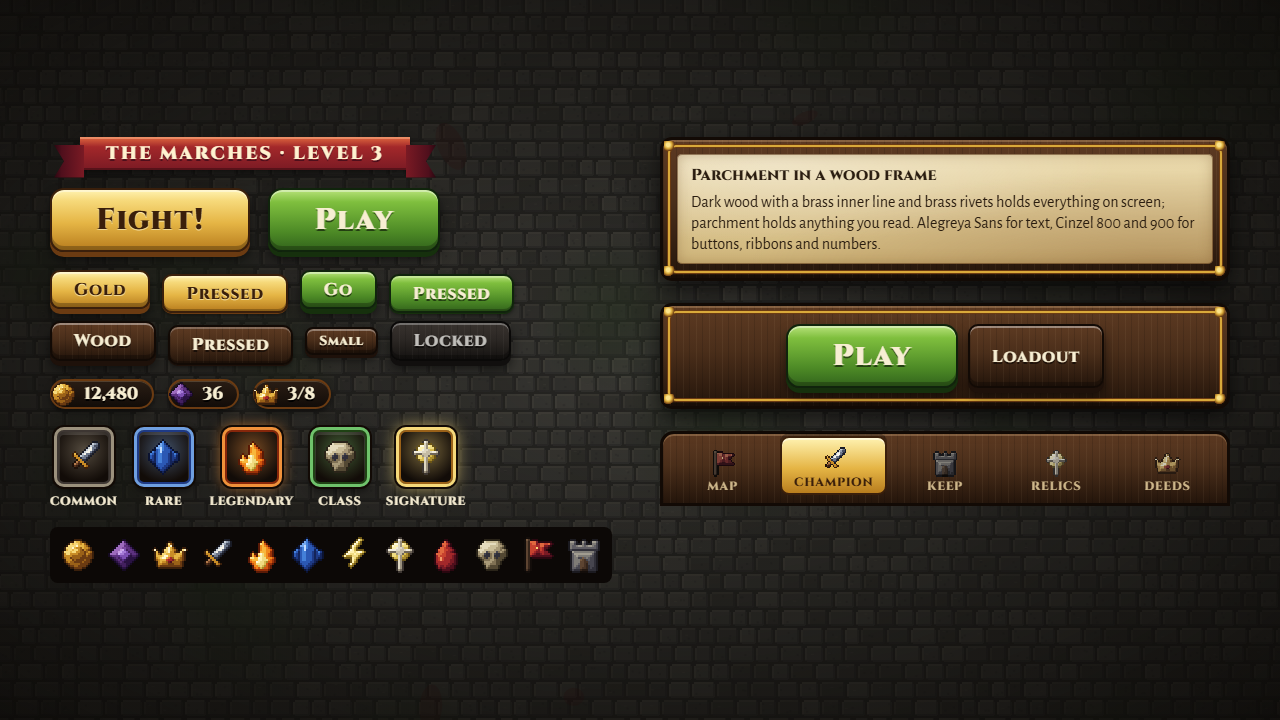
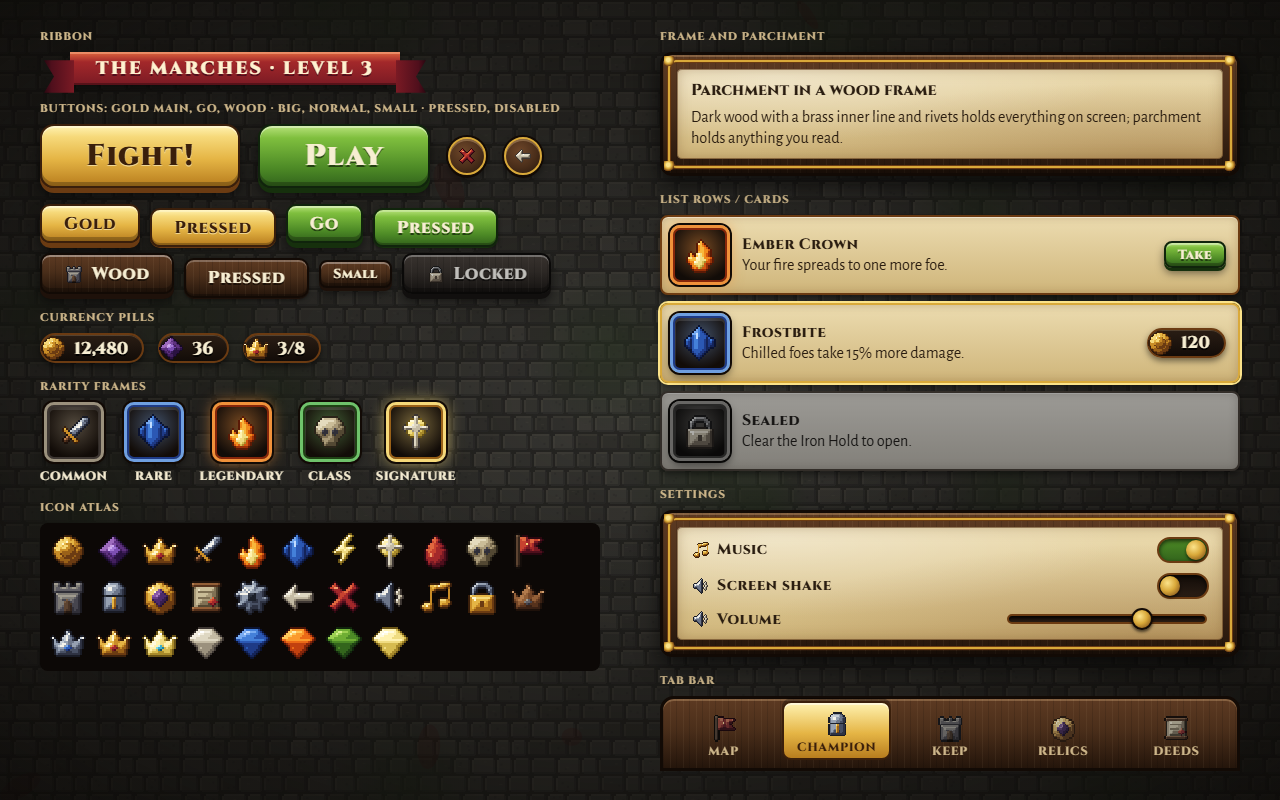
Menus: the kit sheet preview is built with the kit helpers and shows every component (#185)

diff --git a/src/ui/kit.css b/src/ui/kit.css
@@ -253,9 +253,10 @@
 .kit-row.locked { filter: grayscale(0.85) brightness(0.7); }
 
 /* #185: Settings: an on/off switch and a slider, brass on dark wood */
-.kit-toggle, .kit-slider { display: flex; align-items: center; justify-content: space-between; gap: 14px; font: 800 15px var(--kit-num); letter-spacing: 0.03em; cursor: pointer; }
+.kit-toggle, .kit-slider { position: relative; display: flex; align-items: center; justify-content: space-between; gap: 14px; font: 800 15px var(--kit-num); letter-spacing: 0.03em; cursor: pointer; }
+.kit-toggle span, .kit-slider span { display: inline-flex; align-items: center; gap: 6px; }
 .kit-toggle input { position: absolute; opacity: 0; width: 1px; height: 1px; }
-.kit-toggle i {
+.kit-toggle > i {
   position: relative;
   flex: none;
   width: 52px;
@@ -266,7 +267,7 @@
   box-shadow: inset 0 2px 4px rgba(0, 0, 0, 0.7);
   transition: background 120ms;
 }
-.kit-toggle i::after { /* the knob: a brass stud */
+.kit-toggle > i::after { /* the knob: a brass stud */
   content: '';
   position: absolute;
   top: 1px;
